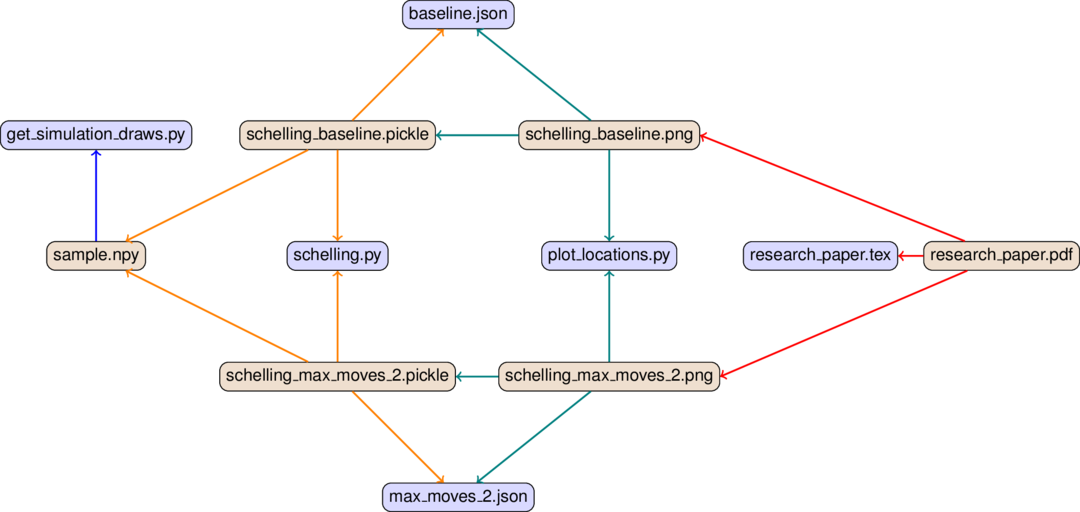
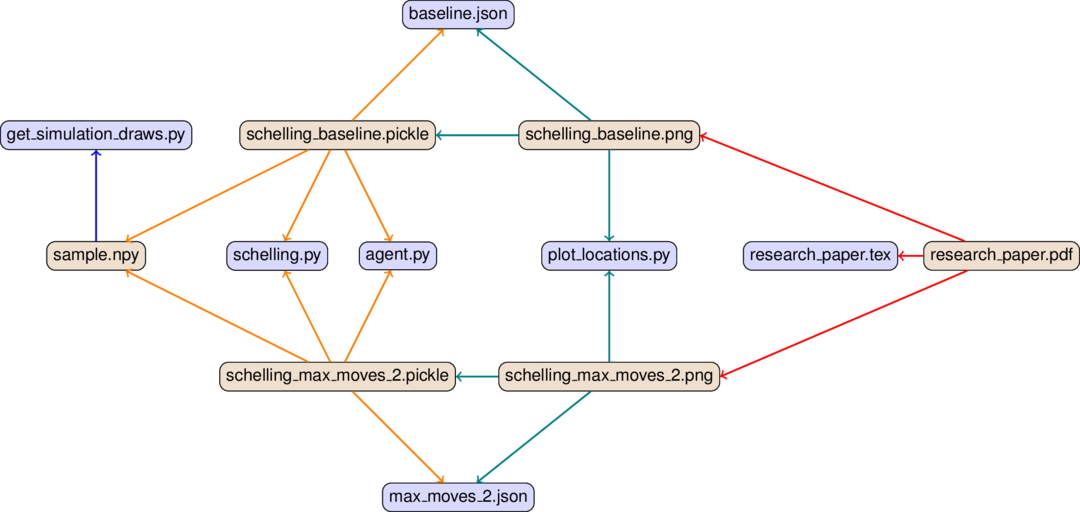
Finished DAG section.

Changed region(s): [[0.1833, 0.4375, 0.4278, 0.5625], [0.275, 0.5938, 0.3361, 0.7188], [0.275, 0.2812, 0.3361, 0.4062]]

diff --git a/searchindex.js b/searchindex.js
@@ -1,1 +1,1 @@
-Search.setIndex({objtypes:{},terms:{workflow:[0,4,3],everi:0,travers:0,repeat:2,faculti:1,remov:4,accumul:2,household:1,locat:[0,4],anoth:2,want:[0,4],expand:2,mostli:0,texliv:4,paper:[0,4],assess:1,inform:4,requir:[0,4],difficult:[4,2],out_fin:5,term:4,paricular:0,differ:[0,4],code:[0,4,2],serv:0,per:0,mccullough:[1,2],substanc:2,next:4,rel:2,partli:0,overkil:2,octob:1,where:[4,2],strict:2,second:[0,4,2],"true":0,portfolio:1,rebuilt:4,guid:4,exampl:[0,4,2,3],evid:5,navig:4,run:[0,4,2,3],incent:2,right:4,allow:2,some:[0,4,2],gaudeck:1,clone:4,brownish:0,rogoff:2,out_data:5,what:[0,4],row:1,happen:0,put:2,org:4,get:[4,2,3],hire:1,hoxbi:[1,2],doe:[0,1,4,2],cover:2,huge:2,past:0,doc:4,arrow:0,moment:0,entir:[0,2],few:0,out:4,open:1,john:1,our:0,specif:[0,4],name:[4,5],task:[0,4],riski:1,publish:2,safe:2,wall:[1,2],financi:1,berkelei:1,togeth:[0,2],american:1,far:2,prone:2,popul:1,assum:[0,2],research_pap:4,folder:4,known:2,robust:[],data_manag:5,tex:4,justin:1,machin:[0,4],structur:4,undermin:2,well:2,section:[4,2],mandatori:2,simul:[0,4],recommend:4,fill:4,cannot:[4,2],restrict:0,delet:4,els:0,reproduc:[0,1,2,3],grow:2,septemb:1,mai:[0,4,2],follow:[4,2,5],scienc:2,renam:4,start:[0,4,2,3],onli:[0,2],smaller:2,nnn:4,crime:1,read:2,familiar:2,anaconda:4,issu:[0,2],dissemnin:[],matur:[],bug:2,ensur:[0,2],conf:4,march:1,correct:4,sourc:[0,4],initi:0,bluish:0,von:1,replac:4,stata:4,necessari:[4,2],benefit:1,won:4,jrothstein:1,sad:2,present:4,hrishikesh:1,verifi:[1,2],equival:0,compar:2,http:[1,4],schelling69:[],search:4,confirm:2,here:0,shell:4,painlessli:4,correspond:4,quot:2,block:2,done:[0,2],includ:4,ideal:0,other:[0,4,2],note:4,consequ:2,road:0,around:0,everyth:[0,4,2],purpos:0,would:[0,2],repositori:4,simpli:0,page:2,stone:4,soest:1,"case":[0,1,4,2,3],wide:5,tip:2,alwai:[4,2],gener:[0,4,5],feel:4,reader:2,call:4,school:1,embark:[],part:[0,4,2],etc:4,those:2,first:[4,2],your:[0,4,2],main:[0,4],otherwis:4,iceberg:2,edg:0,begin:2,cours:0,softwar:2,make:[0,4,2],list:4,wast:2,modern:4,perform:0,onc:0,edu:1,master:0,adjust:4,matter:0,market:1,vari:1,manag:[0,4],pair:0,progress:2,han:1,minim:0,sphinx:4,appear:[2,5],lower:2,costless:2,again:0,placehold:4,direct:[0,3],let:[0,2],parallel:4,wscript:[4,5],have:[0,4,2],rejoind:1,design:[0,3],quest:2,erik:1,singl:4,ldot:2,studi:1,henc:0,reinhart:2,advic:1,correctli:2,input:0,current:4,analysi:[0,1,4,5],merit:2,when:[0,4,2],stop:0,brief:4,clear:0,random:0,directori:[4,5],clean:[],address:4,through:2,polici:[1,2],bodi:2,quickli:2,more:[0,4,2],effort:2,find:[0,4,2],fine:[],serious:2,solver:1,taxpay:1,forthcom:1,both:0,sooner:2,pull:0,top:[4,2,5],rational:[0,3],free:2,quant:1,stick:2,below:4,down:0,contrast:0,probabl:2,post:2,definit:4,download:4,further:2,thei:[0,2],directli:2,projectsstructur:4,them:[0,4,2],scale:0,rule:2,ani:[0,2,5],tool:[0,2],after:0,python:[0,4,2,3],earlier:2,librari:4,result:[0,4,2],archiv:2,behaviour:1,among:1,model:[0,1,4],experi:2,report:2,output:[0,4],extend:2,flawlessli:2,visualis:[0,4],click:2,about:[4,2],own:2,quit:0,happi:[0,2],choic:[0,1],support:[4,2],did:2,seriou:0,were:0,how:[0,1,4,3],pdf:1,taken:[0,2,5],estim:[1,4],point:[0,2],unless:2,continuum:4,describ:4,nonlinear:1,replic:[0,2],transcrib:2,solut:1,defin:4,van:1,configur:4,process:4,wsj:1,between:[0,2],understand:4,can:[4,2],aim:2,paramet:4,best:0,baselin:[],stir:1,order:0,now:[0,4],fail:4,author:2,depend:[0,4],altern:2,sai:0,keep:0,intermedi:0,sampl:0,alreadi:2,idea:0,research_pres_30min:4,particular:[0,4],rst:4,too:[],show:0,separ:0,thing:4,bunch:2,meaning:4,retir:4,wai:[0,1],easi:0,dataset_1:4,format:4,mactex:4,cycl:[0,1],outlin:0,comment:[0,1],waf:[6,4,2,3],logic:[0,4],verif:2,whatev:[],much:[0,4,2],jess:1,refer:[1,3],type:4,implement:[0,4,2,5,3],cornerston:2,often:[],diversif:1,matlab:4,branch:[0,4],"function":4,worri:4,net:1,activ:2,erron:2,heterogen:1,varieti:[4,2],student:1,econom:[1,2],store:4,tug:4,"new":2,distinguish:0,without:4,fit:4,think:[0,4,2],content:[4,3],perfect:2,affili:4,element:0,schell:[0,1],pain:2,filofg:0,connect:0,abov:[0,2],project:[0,4,2,5,3],take:0,figur:[0,4,2],html:[1,4],"try":4,see:[4,2],com:4,tbd:[4,5,6],tbc:0,trust:2,naïv:0,novel:1,googl:[4,2],draw:0,novic:2,latex:4,manual:0,number:2,review:1,later:[4,2],similar:5,cshop:4,which:[0,4,2],tabl:[0,4,3],particularli:0,localis:4,version:0,levitt:[1,2],acycl:[0,4,3],demonstr:0,mean:[0,2],been:2,becom:[0,4,2],onlin:0,just:[0,4,2],scalabl:0,effect:1,openli:2,ethic:2,though:[0,2],rank:2,should:[4,2,5],share:2,sophist:1,independ:2,whether:[0,4],titl:4,although:2,earli:0,target:0,written:2,street:[1,2],usual:0,out_figur:5,modifi:[0,2,5],gain:2,lnbvyne:0,help:2,instead:[0,4,2],econ:1,regardless:0,forget:0,node:0,agent:0,research:[0,1,4,2],out_tabl:5,src:[4,5],individu:0,"export":4,almost:2,exactli:4,carolin:1,arthur:1,ttt:4,write:4,error:[4,2],data:[0,4,2],than:[0,4,2],whose:2,still:0,respect:2,variou:0,script:[0,4],convinc:2,specifi:[0,4],dag:[0,4,3],possibl:[0,4,2],index:[1,4],segreg:[0,1],journal:[1,2],mix:0,track:0,appli:0,look:0,command:4,like:2,rather:2,minut:0,easili:[4,2],languag:[0,4,2,5],complet:2,repli:1,bit:4,mccrari:[1,2],action:4,instal:4,option:0,model_specif:4,pleas:[0,4,2],meant:0,same:[0,4,2],line:[0,4],competit:1,agnost:0,place:4,stachurskisargent13:[],april:1,empir:2,hear:2,either:[0,2],stachurski:[0,1],thought:0,collect:4,easier:2,decemb:1,program:[0,4,2],avail:[1,4],fix:0,june:1,from:[0,1,4,2,5],"final":[4,5],move:[0,4],autom:[4,2],distribut:[0,4],add:[0,4],better:2,befor:4,friend:2,www:4,sargent:[0,1],chang:[0,4],come:4,zip:4,knowledg:2,quantit:1,lure:2,via:[0,4],even:0,"class":2,dai:0,hand:2,three:0,over:0,financ:1,uuu:4,graph:[0,4,3],martin:1,grain:0,templat:[0,4,2,3],set:[4,5],academ:1,you:[0,4,2],header:[4,5],"public":1,found:4,sub:4,save:2,thoma:1,mani:[4,2],execut:2,resourc:2,rothstein:[1,2],explictli:0,gsppi:1,setup:0,comput:[0,2],pre:4,broad:1,rememb:[0,2],original_data:4,live:4,enforc:2,project_document:4,loop:0,all:[0,4,2,5],wengström:1,level:[4,5],sure:4,end:[0,2],across:0,repetit:2,file:[0,4,5],against:[],nowadai:2,miktex:4,becaus:[0,2],who:2,color:0,exchang:2,each:[0,2],build:[4,2],need:[0,4,2],elector:1,why:2,packag:[4,2],vinod:[1,2],actual:[0,4],"long":[0,2],access:1,jump:2,mous:2,period:0,descript:0,work:[4,2],copi:[0,4],pure:0,organis:[0,3],chunk:0,goal:2,polic:1,most:4,controversi:2,wait:0,simpl:[0,2],until:2,problem:[0,4],profess:2,path:[4,5,3],credibl:2,layout:0,check:0,good:0,explan:2,time:[0,2],automat:[4,5],two:[0,2],thu:0,document:[4,2],thi:[0,4,2],steven:1,basi:2,step:[0,4,2,5],base:[4,2,3],editor:4,novemb:1,introduct:[6,2,3],veri:0,know:[0,2],out_analysi:5},objects:{},filenames:["rationale","references","introduction","index","getting_started","implementation","waf"],objnames:{},titles:["Design rationale","References","Introduction","Table of Contents","Getting started","Implementation","Introduction to Waf"]})
+Search.setIndex({filenames:["rationale","implementation","index","getting_started","references","waf","introduction"],objnames:{},titles:["Design rationale","Implementation","Table of Contents","Getting started","References","Introduction to Waf","Introduction"],objtypes:{},objects:{},terms:{understand:[0,3],whose:6,enforc:6,fine:0,find:[0,6,3],easier:6,contrast:0,between:[0,6],perfect:6,demonstr:0,project_document:3,each:[0,6],credibl:6,filofg:[],familiar:6,which:[0,6,3],baselin:0,pickl:0,task:[0,3],requir:[0,3],rst:3,project:[0,1,2,6,3],easi:0,simpl:[0,6],help:6,much:[0,6,3],substanc:6,happi:[0,6],although:6,empir:6,sargent:[0,4],among:4,quot:6,term:3,note:3,path:[1,2,3],estim:[4,3],design:[0,2],your:[0,6,3],navig:3,uuu:3,result:[0,6,3],heterogen:4,mactex:3,even:0,otherwis:3,thu:0,berkelei:4,brief:3,thi:[0,6,3],than:[0,6,3],undermin:6,copi:[0,3],those:[0,6],dataset_1:3,access:4,idea:0,hire:4,usual:0,current:3,manag:[0,3],everyth:[0,6,3],vari:4,serv:0,guid:3,capac:[],stachurskisargent13:[],septemb:4,http:[4,3],specif:[0,3],where:[6,3],transcrib:6,differ:[0,3],html:[4,3],color:0,nowadai:6,visualis:[0,3],perform:0,write:3,correct:3,june:4,www:3,includ:3,"true":0,cycl:[0,4],mccullough:[4,6],regardless:0,can:[6,3],organis:[0,2],onlin:0,hrishikesh:4,refer:[4,2],known:6,order:0,gsppi:4,confirm:6,recommend:3,direct:[0,2],out_tabl:1,instead:[0,6,3],stone:3,next:[0,3],reproduc:[0,4,2,6],ideal:0,format:3,sphinx:3,easili:[0,6,3],texliv:3,directli:6,far:6,binari:0,base:[6,2,3],decemb:4,basi:6,orang:0,financi:4,choic:[0,4],sure:3,click:6,extend:6,mai:[0,6,3],reader:6,april:4,random:0,localis:3,sourc:[0,3],complet:6,introduct:[5,6,2],convinc:6,first:[0,6,3],option:0,rank:6,"case":[0,4,2,6,3],come:3,replic:[0,6],step:[0,1,6,3],further:[0,6],goal:6,below:3,directori:[1,3],everi:0,gain:6,advic:4,show:0,collect:3,over:0,activ:6,schelling69:[],pure:0,past:0,ethic:6,controversi:6,folder:3,appear:[1,6],independ:6,minim:0,verif:6,nonlinear:4,rather:6,tex:3,chang:[0,3],who:6,"try":3,distribut:[0,3],right:3,command:3,gaudeck:4,strategi:0,more:[0,6,3],second:[0,6,3],research:[0,4,6,3],track:0,why:6,workflow:[0,2,3],across:0,becaus:[0,6],correctli:6,net:4,explan:6,tbd:[1,5,3],tbc:0,student:4,overkil:[0,6],miktex:3,econ:4,pain:6,verifi:[4,6],what:[0,3],martin:4,pre:3,teal:0,scienc:6,accumul:6,all:[0,1,6,3],written:6,pair:0,machin:[0,3],effort:6,continuum:3,chunk:0,repeat:6,npy:0,studi:4,tug:3,softwar:6,header:[1,3],market:4,placehold:3,becom:[0,6,3],paricular:0,now:[0,3],consequ:6,rel:6,grain:0,sai:0,openli:6,correspond:3,red:0,simpli:0,org:3,autom:[6,3],librari:3,run:[0,6,2,3],ttt:3,support:[6,3],repli:4,happen:0,better:6,delet:3,detail:0,wai:[0,4],safe:6,robust:[],waf:[5,6,2,3],shell:3,trust:6,popul:4,solut:4,parallel:3,without:3,comment:[0,4],out_data:1,wsj:4,ensur:[0,6],file:[0,1,3],smaller:6,unless:6,point:[0,6],merit:6,googl:[6,3],need:[0,6,3],pdf:[0,4],american:4,content:[2,3],present:3,hand:6,read:6,been:6,sophist:4,evid:1,reinhart:6,templat:[0,6,2,3],quit:0,automat:[1,3],rule:6,wide:1,review:4,adjust:3,meant:0,henc:0,justin:4,erron:6,projectsstructur:3,retir:3,altern:6,build:[0,6,3],minut:0,node:0,crime:4,some:[0,6,3],meaning:3,profess:6,edg:0,purpos:0,layout:0,two:[0,6],when:[0,6,3],languag:[0,1,6,3],competit:4,graph:[0,2,3],error:[6,3],let:[0,6],initi:0,line:[0,3],exchang:6,like:6,them:[0,6,3],etc:3,just:[0,6,3],street:[4,6],jrothstein:4,branch:[0,3],stick:6,level:[1,3],econom:[4,6],rational:[0,2],naïv:0,archiv:6,plot_loc:[],through:6,serious:6,bug:6,our:0,embark:[],out:3,anew:0,png:0,outlin:0,other:[0,6,3],scalabl:0,wall:[4,6],keep:0,tip:6,affili:3,could:0,varieti:[6,3],locat:[0,3],schell:[0,4],clone:3,script:[0,3],behaviour:4,save:6,knowledg:6,take:0,row:4,arthur:4,three:0,problem:[0,3],john:4,broad:4,jump:6,lnbvyne:[],compar:6,difficult:[6,3],"export":3,"new":6,rebuilt:3,onc:0,travers:0,textbook:0,financ:4,mous:6,see:[6,3],publish:6,connect:0,paramet:3,depend:[0,3],out_fin:1,thoma:4,download:3,"final":[1,3],mostli:[],stachurski:[0,4],mccrari:[4,6],cornerston:6,set:[1,3],wait:0,pull:0,same:[0,6,3],almost:6,solver:4,latex:3,free:6,via:[0,3],wscript:[1,3],equival:0,later:[0,6,3],iceberg:6,original_data:3,index:[4,3],type:3,were:0,benefit:4,main:[0,3],intermedi:0,know:[0,6],target:0,both:0,vinod:[4,6],lower:6,closer:0,abov:[0,6],schelling_baselin:0,com:3,rememb:[0,6],march:4,specifi:[0,3],jess:4,thought:0,should:[1,6,3],novic:6,exactli:3,want:[0,3],aim:6,rogoff:6,consid:0,done:[0,6],carolin:4,fix:0,particularli:0,editor:3,soest:4,partli:0,effect:4,conf:3,own:6,mandatori:6,fit:3,avail:[4,3],assess:4,block:6,seriou:0,json:0,quest:6,taken:[0,1,6],logic:[0,3],bit:3,document:[6,3],check:0,here:0,around:0,part:[0,6,3],doc:3,doe:[0,4,6,3],"class":6,live:3,zip:3,address:3,definit:3,though:[0,6],entir:[0,6],explictli:0,feel:3,hoxbi:[4,6],number:6,probabl:6,matter:0,levitt:[4,6],separ:0,defin:3,von:4,edu:4,portfolio:4,configur:3,blue:0,dissemnin:[],stata:3,arrow:0,earli:0,until:6,experi:6,individu:0,flawlessli:6,quickli:6,descript:0,progress:6,model:[0,4,3],prone:6,faculti:4,replac:3,earlier:6,down:0,bluish:0,loop:0,possibl:[0,6,3],pleas:[0,6,3],input:0,draw:0,stop:0,octob:4,grow:6,execut:6,whether:[0,3],ani:[0,1,6],post:6,assum:[0,6],program:[0,6,3],matlab:3,household:4,compil:0,fail:3,you:[0,6,3],exampl:[0,6,2,3],comput:[0,6],appli:0,work:[6,3],manual:0,respect:6,dissect:0,mean:[0,6],restrict:0,alwai:[6,3],figur:[0,6,3],quant:4,except:0,sooner:6,dag:[0,2,3],issu:[0,6],list:3,moment:0,data_manag:1,veri:0,togeth:[0,6],clean:[],journal:[4,6],sub:3,rejoind:4,good:0,cover:6,section:[0,6,3],element:0,won:3,describ:3,road:0,particular:[0,3],from:[0,1,6,4,3],mix:0,han:4,python:[0,6,2,3],polic:4,mani:[0,6,3],best:0,worri:3,erik:4,wengström:4,novel:4,implement:[0,1,2,6,3],expand:6,hear:6,"public":4,have:[0,6,3],singl:3,riski:4,about:[0,6,3],alreadi:6,place:3,huge:6,per:0,necessari:[6,3],befor:3,clear:0,action:3,quantit:4,head:0,polici:[4,6],process:[0,3],after:0,thei:[0,6],costless:6,agent:0,steven:4,whatev:[],start:[0,6,2,3],anoth:6,most:3,code:[0,6,3],master:0,begin:6,found:3,onli:[0,6],data:[0,6,3],setup:0,end:[0,6],strict:6,tool:[0,6],brownish:0,"import":0,structur:3,cannot:[6,3],put:6,did:6,modern:3,name:[1,3],author:6,resourc:6,variou:0,share:6,page:6,stir:4,novemb:4,friend:6,out_figur:1,well:[0,6],research_pap:3,again:0,tabl:[0,2,3],open:4,often:[],wast:6,cours:0,against:[],nnn:3,agnost:0,taxpay:4,distinguish:0,ldot:6,scale:0,incent:6,lead:[],cshop:3,still:0,painlessli:3,src:[1,3],diversif:4,version:0,few:0,gener:[0,1,3],get:[6,2,3],store:3,lure:6,analysi:[0,1,4,3],segreg:[0,4],fill:3,elector:4,add:[0,3],allow:6,report:6,school:4,rothstein:[4,6],too:[],"function":3,thing:[0,3],research_pres_30min:3,would:[0,6],think:[0,6,3],look:0,sampl:0,instal:3,repetit:6,bodi:6,period:0,move:[0,3],repositori:3,"long":[0,6],renam:3,remov:3,paper:[0,3],either:[0,6],els:0,time:[0,6],top:[1,6,3],out_analysi:1,how:[0,4,2,3],academ:4,forthcom:4,follow:[1,6,3],make:[0,6,3],search:3,inform:3,simul:[0,3],van:4,actual:[0,3],acycl:[0,2,3],dai:0,call:3,titl:3,output:[0,3],forget:0,anaconda:3,model_specif:3,bunch:6,packag:[6,3],matur:[],modifi:[0,1,6],similar:1,sad:6}})

diff --git a/rationale.html b/rationale.html
@@ -89,7 +89,7 @@
 <img alt="_images/model_steps_full.png" src="_images/model_steps_full.png" style="width: 25em;" />
 </div>
 <p>The equivalent comment applies here: Either keep track of which model needs to be run after making changes manually, or run everything at once.</p>
-<p>Ideally though, you want to be more even more filofg lnbvyne-grained than this and only run individual elements. This is particularly true when your entire computations take some time &#8211; running all steps every time via the <em>master-script</em> simply is not an option. All my research projects ended up running for a long time, no matter how simple they were... The figure shows you that even in this simple example, there are now quite a few parts to remember:</p>
+<p>Ideally though, you want to be more even more fine-grained than this and only run individual elements. This is particularly true when your entire computations take some time &#8211; running all steps every time via the <em>master-script</em> simply is not an option. All my research projects ended up running for a long time, no matter how simple they were... The figure shows you that even in this simple example, there are now quite a few parts to remember:</p>
 <div class="figure">
 <img alt="_images/model_steps_select.png" src="_images/model_steps_select.png" style="width: 25em;" />
 </div>
@@ -102,13 +102,20 @@
 <div class="figure">
 <img alt="_images/schelling_dependencies.png" src="_images/schelling_dependencies.png" style="width: 50em;" />
 </div>
-<p>Bluish nodes are pure source files &#8211; they do not depend on any other file and hence no arrow points at any of them. In contrast, brownish nodes are targets, they are generated by the code. They may serve mostly as intermediate targets &#8211; e.g. there is not much you would want to do with the ...</p>
-<p>A serious example is the DAG for an early version of <a class="reference internal" href="references.html#gaudecker14">[9]</a>:</p>
+<p>The arrows have different colors in order to distinguish the steps of the analysis:</p>
+<ul class="simple">
+<li>Blue for data management (=drawing a simulated sample, in this case)</li>
+<li>Orange for the main simulation</li>
+<li>Teal for the visualisation of results</li>
+<li>Red for compiling the pdf of the paper</li>
+</ul>
+<p>Bluish nodes are pure source files &#8211; they do not depend on any other file and hence no arrow points at any of them. In contrast, brownish nodes are targets, they are generated by the code. Some may serve as intermediate targets only &#8211; e.g. there is not much you would want to do with the binary file of the simulated sample (<tt class="docutils literal"><span class="pre">sample.npy</span></tt>) except for processing it further.</p>
+<p>In a first run, all targets have to be generated, of course. In later runs, a target only needs to be re-generated if one of its direct <strong>dependencies</strong> changes. E.g. when we make changes to <tt class="docutils literal"><span class="pre">baseline.json</span></tt>, we will need to build <tt class="docutils literal"><span class="pre">schelling_baseline.pickle</span></tt> and  <tt class="docutils literal"><span class="pre">schelling_baseline.png</span></tt> anew. Depending on whether <tt class="docutils literal"><span class="pre">schelling_baseline.png</span></tt> actually changes, we need to re-compile the pdf as well. We will dissect this example in more detail in the next section, the only important thing at this point is to understand the general idea.</p>
+<p>Of course this is overkill for a textbook example &#8211; we could easily keep the code closer together than this. But this strategy does not scale to serious papers with many different specifications. As a case in point, consider the DAG for an early version of <a class="reference internal" href="references.html#gaudecker14">[9]</a>:</p>
 <div class="figure">
 <img alt="_images/pfefficiency.jpg" src="_images/pfefficiency.jpg" style="width: 35em;" />
-<p class="caption"><em>Organising the workflow &#8212; By model?</em></p>
 </div>
-<p>(TBC)</p>
+<p>Do you want to keep those dependencies in your head? Or would it be useful to specify them once and for all in order to have more time for thinking about research? The next section shows you how to do that.</p>
 </div>
 </div>
 

diff --git a/_static/searchtools.js b/_static/searchtools.js
@@ -301,7 +301,7 @@ var Search = {
   },
 
   query : function(query) {
-    var stopwords = ["for","no","are","near","their","with","not","such","a","then","there","at","as","and","on","but","into","it","is","this","of","they","in","will","to","if","was","or","that","be","these","by","the"];
+    var stopwords = ["these","be","for","by","will","the","no","or","this","near","a","they","that","there","not","are","at","as","then","if","their","into","of","in","with","to","but","was","on","it","is","and","such"];
 
     // Stem the searchterms and add them to the correct list
     var stemmer = new Stemmer();

diff --git a/src/examples/schelling_dependencies.tex b/src/examples/schelling_dependencies.tex
@@ -30,9 +30,13 @@
     {
         sample.npy
     };
-    \node (schelling_py) [fill=blue!15, shift={(0, 0)}]
+    \node (schelling_py) [fill=blue!15, shift={(-1, 0)}]
     {
         schelling.py
+    };
+    \node (agent_py) [fill=blue!15, shift={(1, 0)}]
+    {
+        agent.py
     };
     \node (baseline_json) [fill=blue!15, shift={(2, 4)}]
     {
@@ -73,9 +77,11 @@
     \draw[->, blue, thick] (sample_npy) to (get_simulation_draws_py);
     \draw[->, orange, thick] (schelling_baseline_pickle) to (sample_npy);
     \draw[->, orange, thick] (schelling_baseline_pickle) to (schelling_py);
+    \draw[->, orange, thick] (schelling_baseline_pickle) to (agent_py);    
     \draw[->, orange, thick] (schelling_baseline_pickle) to (baseline_json);
     \draw[->, orange, thick] (schelling_max_moves_2_pickle) to (sample_npy);
     \draw[->, orange, thick] (schelling_max_moves_2_pickle) to (schelling_py);
+    \draw[->, orange, thick] (schelling_max_moves_2_pickle) to (agent_py);    
     \draw[->, orange, thick] (schelling_max_moves_2_pickle) to (max_moves_2_json);
     \draw[->, teal, thick] (schelling_baseline_png) to (schelling_baseline_pickle);
     \draw[->, teal, thick] (schelling_baseline_png) to (plot_locations_py);

diff --git a/src/rationale.rst b/src/rationale.rst
@@ -47,7 +47,7 @@ You will still need to manually keep track of whether you need to run a paricula
    
 The equivalent comment applies here: Either keep track of which model needs to be run after making changes manually, or run everything at once.
 
-Ideally though, you want to be more even more filofg lnbvyne-grained than this and only run individual elements. This is particularly true when your entire computations take some time -- running all steps every time via the *master-script* simply is not an option. All my research projects ended up running for a long time, no matter how simple they were... The figure shows you that even in this simple example, there are now quite a few parts to remember:
+Ideally though, you want to be more even more fine-grained than this and only run individual elements. This is particularly true when your entire computations take some time -- running all steps every time via the *master-script* simply is not an option. All my research projects ended up running for a long time, no matter how simple they were... The figure shows you that even in this simple example, there are now quite a few parts to remember:
 
 .. figure:: ../bld/src/examples/model_steps_select.png
    :width: 25em
@@ -65,14 +65,20 @@ This is the dependency graph for the modified Schelling example from Stachurski 
 .. figure:: ../bld/src/examples/schelling_dependencies.png
    :width: 50em
 
-Bluish nodes are pure source files -- they do not depend on any other file and hence no arrow points at any of them. In contrast, brownish nodes are targets, they are generated by the code. They may serve mostly as intermediate targets -- e.g. there is not much you would want to do with the ... 
+The arrows have different colors in order to distinguish the steps of the analysis: 
 
-A serious example is the DAG for an early version of :cite:`Gaudecker14`:
+* Blue for data management (=drawing a simulated sample, in this case)
+* Orange for the main simulation
+* Teal for the visualisation of results
+* Red for compiling the pdf of the paper
+
+Bluish nodes are pure source files -- they do not depend on any other file and hence no arrow points at any of them. In contrast, brownish nodes are targets, they are generated by the code. Some may serve as intermediate targets only -- e.g. there is not much you would want to do with the binary file of the simulated sample (``sample.npy``) except for processing it further.
+
+In a first run, all targets have to be generated, of course. In later runs, a target only needs to be re-generated if one of its direct **dependencies** changes. E.g. when we make changes to ``baseline.json``, we will need to build ``schelling_baseline.pickle`` and  ``schelling_baseline.png`` anew. Depending on whether ``schelling_baseline.png`` actually changes, we need to re-compile the pdf as well. We will dissect this example in more detail in the next section, the only important thing at this point is to understand the general idea.
+
+Of course this is overkill for a textbook example -- we could easily keep the code closer together than this. But this strategy does not scale to serious papers with many different specifications. As a case in point, consider the DAG for an early version of :cite:`Gaudecker14`:
 
 .. figure:: examples/pfefficiency.jpg
    :width: 35em
    
-   *Organising the workflow --- By model?*
-
-
-(TBC)
+Do you want to keep those dependencies in your head? Or would it be useful to specify them once and for all in order to have more time for thinking about research? The next section shows you how to do that.
